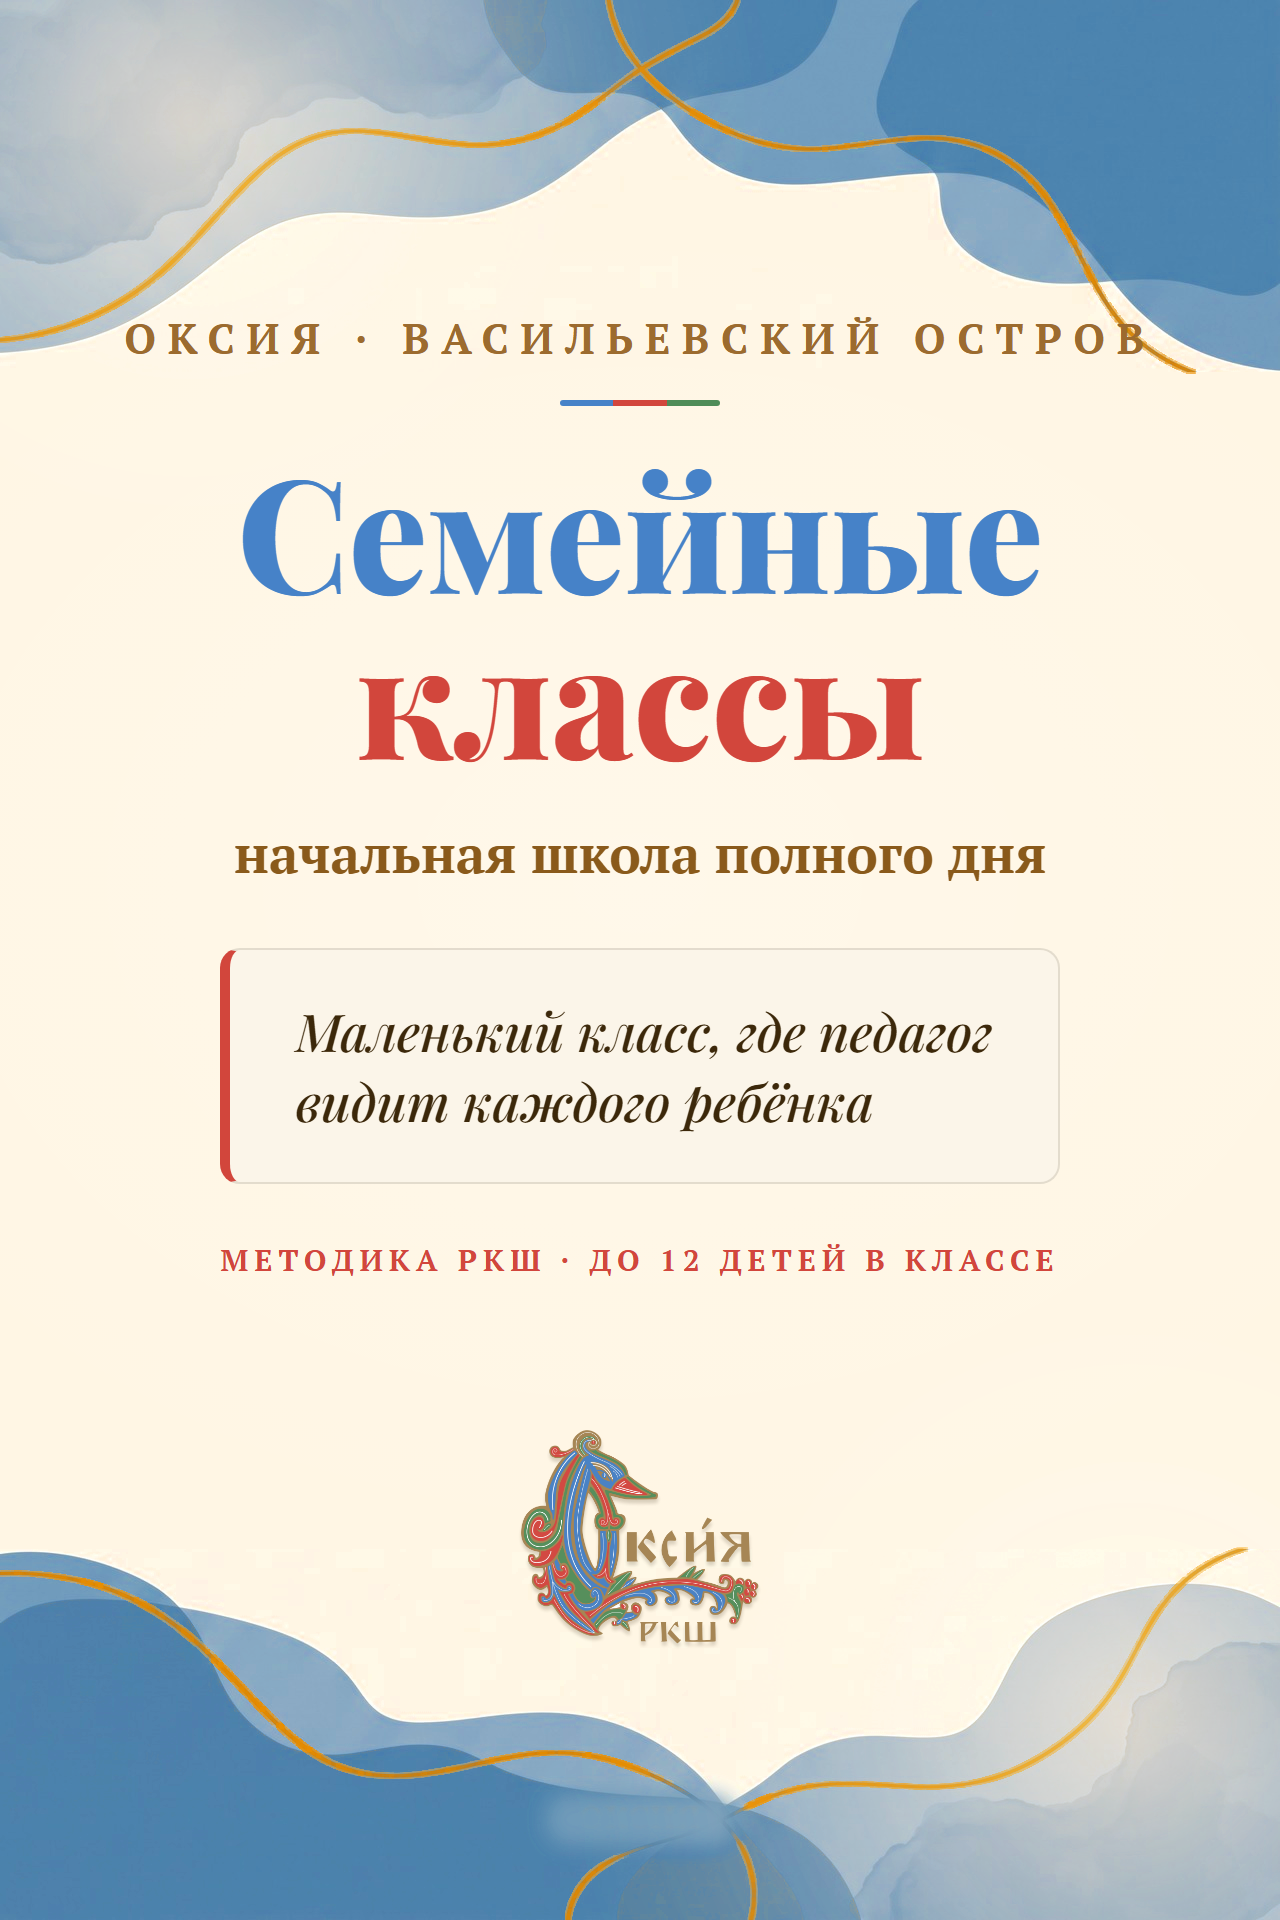
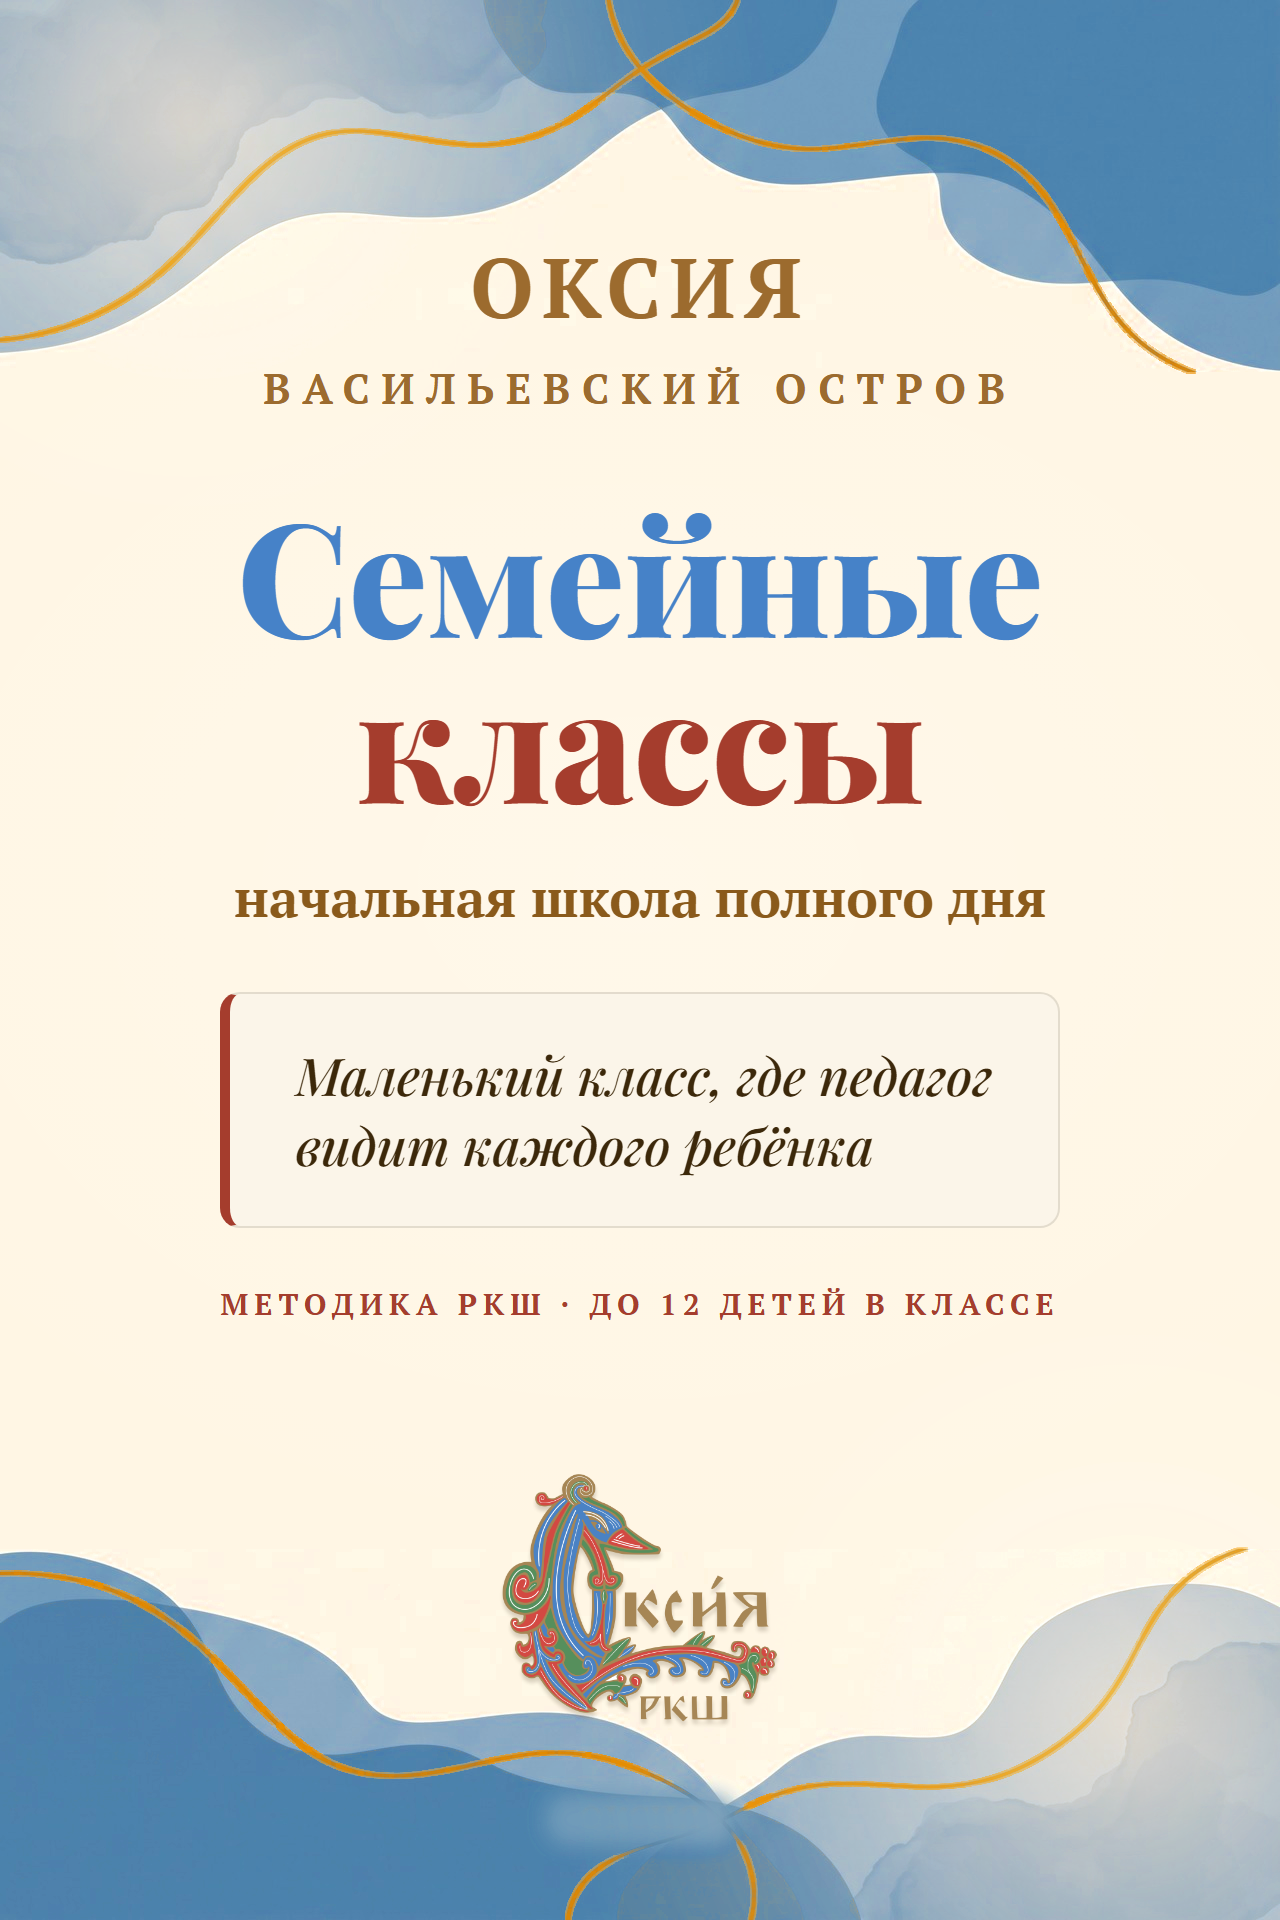
Правки заказчика на обложке «Семейные классы» (вариант bright)
Бордо вместо яркого красного, ОКСИЯ крупнее в две строки, логотип чуть больше.

diff --git a/story-preview/_build/story-sample-01-bright.html b/story-preview/_build/story-sample-01-bright.html
@@ -43,12 +43,14 @@
     font-size:42px; letter-spacing:.28em; text-transform:uppercase;
     color:var(--bronze-soft);
   }
+  .kick-brand{ font-size:84px; letter-spacing:.1em; }
+  .kick-loc{ margin-top:18px; }
 
   .stripe{ margin-top:34px; width:160px; height:6px; border-radius:3px; overflow:hidden;
     display:flex; }
   .stripe i{ flex:1; display:block; }
   .stripe .b{ background:var(--blue); }
-  .stripe .r{ background:var(--red); }
+  .stripe .r{ background:var(--red-muted); }
   .stripe .g{ background:var(--green); }
 
   .disp{
@@ -57,14 +59,14 @@
     margin-top:40px;
   }
   .disp .w1{ color:var(--blue); }
-  .disp .w2{ color:var(--red); }
+  .disp .w2{ color:var(--red-muted); }
   .sub{ margin-top:40px; font-size:53px; font-weight:700; color:var(--bronze); }
 
   .chip{
     margin-top:60px;
     background:var(--chip-bg);
     border:2px solid rgba(60,40,10,.12);
-    border-left:10px solid var(--red);
+    border-left:10px solid var(--red-muted);
     border-radius:20px;
     padding:46px 66px;
     font-size:52px; line-height:1.34; color:var(--ink);
@@ -75,17 +77,18 @@
   .facts{
     margin-top:56px;
     font-size:30px; font-weight:700; letter-spacing:.2em; text-transform:uppercase;
-    color:var(--red);
+    color:var(--red-muted);
   }
 
   .logowrap{ margin-top:150px; display:flex; align-items:center; justify-content:center; }
-  .logowrap img{ height:220px; width:auto; }
+  .logowrap img{ height:255px; width:auto; }
 </style>
 </head>
 <body>
   <div class="vin"></div>
   <div class="zone">
-    <div class="kick">ОКСИЯ · ВАСИЛЬЕВСКИЙ ОСТРОВ</div>
+    <div class="kick kick-brand">ОКСИЯ</div>
+    <div class="kick kick-loc">ВАСИЛЬЕВСКИЙ ОСТРОВ</div>
     <div class="stripe"><i class="b"></i><i class="r"></i><i class="g"></i></div>
     <h1 class="disp"><span class="w1">Семейные</span><br><span class="w2">классы</span></h1>
     <div class="sub">начальная школа полного дня</div>

diff --git a/story-preview/_build/slide.html b/story-preview/_build/slide.html
@@ -65,6 +65,8 @@
     font-size:32px; letter-spacing:.34em; text-transform:uppercase;
     color:var(--fg-kick);
   }
+  .kick-brand{ font-size:64px; letter-spacing:.1em; }
+  .kick-loc{ margin-top:16px; }
   .disp{
     font-family:"Playfair Display",serif; font-weight:800;
     font-size:var(--ds,152px); line-height:1.07; letter-spacing:-.005em;
@@ -238,8 +240,9 @@ const S = {
   <div class="btn">Записаться</div>` },
 
 /* ═══ История 1 · Семейные классы (11 = обложка) ═══ */
-11:{ bg:'tb', icon:I.house, isize:'160px', ds:'120px', html:`
-  <div class="kick">ОКСИЯ · Васильевский остров</div>
+11:{ bg:'tb', icon:I.house, isize:'190px', ds:'120px', html:`
+  <div class="kick kick-brand">ОКСИЯ</div>
+  <div class="kick kick-loc">Васильевский остров</div>
   <h1 class="disp">Семейные классы</h1>
   <div class="sub">начальная школа полного дня</div>
   <div class="chip">Маленький класс, где педагог<br>видит каждого ребёнка</div>
